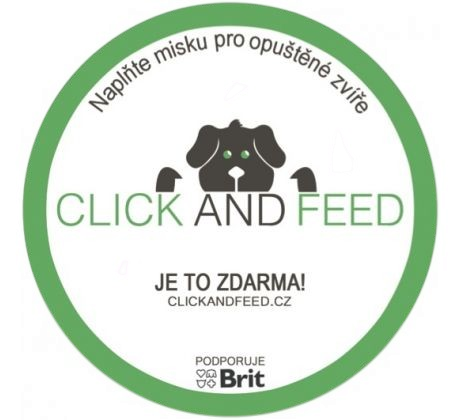
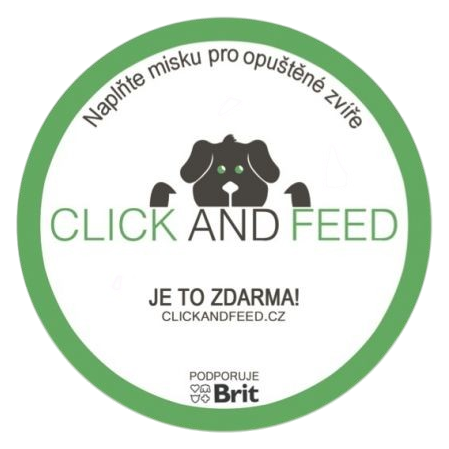
Partneři: rozšíření sekce na „Naši partneři, přátelé a podporovatelé"
Přidáni Petra Kubicová, ČSOP Trosečníci, Kolodějové a Škola pokojný
bojovník vedle stávajících (Jamboz, Nakrm nás, Click and Feed).

Všechna loga ořezána a zbavena bílých/poloprůhledných obdélníkových
pozadí (flood-fill od okrajů zachoval bílé plochy uvnitř designu),
sjednocena na průhledné PNG. Marquee dostal větší karty a rozestupy
a klidnější tempo, ať loga plynule rolují.

Claude-Session: https://claude.ai/code/session_01CfQ2wL6toHGPPQjj1hGiuQ

diff --git a/web/app/o-nas/page.tsx b/web/app/o-nas/page.tsx
@@ -40,9 +40,13 @@ const team = [
 ];
 
 const partners = [
-  { name: "Nakrmnas.cz", logo: "/assets/nakrmnas.png", href: "https://www.nakrmnas.cz/nech-me-rust/" },
-  { name: "clickandfeed.cz", logo: "/assets/click-and-feed.png", href: "https://www.clickandfeed.cz" },
-  { name: "jamboz.cz", logo: "/assets/jamboz.webp", href: "https://www.jamboz.cz" },
+  { name: "Petra Kubicová", logo: "/assets/petra-kubicova.png", href: "https://www.petrakubicova.cz/" },
+  { name: "ČSOP Trosečníci", logo: "/assets/csop-trosecnici.png", href: "https://csoptrosecnici.cz" },
+  { name: "Kolodějové", logo: "/assets/kolodejove.png", href: "https://kolodejove.cz" },
+  { name: "Škola pokojný bojovník", logo: "/assets/skola-pokojny-bojovnik.png", href: "https://skolapokojnybojovnik.cz" },
+  { name: "Farma Jamboz", logo: "/assets/jamboz.png", href: "https://www.jamboz.cz" },
+  { name: "Nakrm nás", logo: "/assets/nakrmnas.png", href: "https://www.nakrmnas.cz/nech-me-rust/" },
+  { name: "Click and Feed", logo: "/assets/click-and-feed.png", href: "https://www.clickandfeed.cz" },
 ];
 
 export default function ONas() {
@@ -180,8 +184,8 @@ export default function ONas() {
           <Reveal>
             <SectionHeader
               eyebrow="Děkujeme"
-              title="Naši partneři"
-              description="Velice si vážíme podpory našich partnerů, díky kterým můžeme realizovat naše projekty a dosahovat stanovených cílů. Jejich důvěra a podpora jsou pro nás klíčové."
+              title="Naši partneři, přátelé a podporovatelé"
+              description="Velice si vážíme podpory našich partnerů, přátel a podporovatelů, díky kterým můžeme realizovat naše projekty a dosahovat stanovených cílů. Jejich důvěra a pomoc jsou pro nás klíčové."
             />
           </Reveal>
           <Reveal>

diff --git a/web/components/LogoMarquee.tsx b/web/components/LogoMarquee.tsx
@@ -17,7 +17,7 @@ export function LogoMarquee({ logos }: { logos: PartnerLogo[] }) {
     <div
       className="marquee-track relative overflow-hidden py-2 [mask-image:linear-gradient(to_right,transparent,black_10%,black_90%,transparent)] [-webkit-mask-image:linear-gradient(to_right,transparent,black_10%,black_90%,transparent)]"
     >
-      <ul className="animate-marquee flex w-max items-center gap-6">
+      <ul className="animate-marquee flex w-max items-center gap-10">
         {loop.map((p, i) => {
           const decorative = seen.has(p.name);
           seen.add(p.name);
@@ -29,14 +29,14 @@ export function LogoMarquee({ logos }: { logos: PartnerLogo[] }) {
                 rel="noopener noreferrer"
                 aria-hidden={decorative || undefined}
                 tabIndex={decorative ? -1 : undefined}
-                className="flex h-24 w-44 items-center justify-center rounded-lg border border-border bg-surface p-5 shadow-soft transition-transform hover:-translate-y-1 hover:border-accent hover:shadow-lift"
+                className="flex h-28 w-48 items-center justify-center rounded-lg border border-border bg-surface p-5 shadow-soft transition-transform hover:-translate-y-1 hover:border-accent hover:shadow-lift"
               >
                 <Image
                   src={p.logo}
                   alt={decorative ? "" : `Logo ${p.name}`}
-                  width={150}
-                  height={70}
-                  className="max-h-14 w-auto object-contain"
+                  width={160}
+                  height={80}
+                  className="max-h-16 w-auto max-w-[150px] object-contain"
                 />
               </a>
             </li>

diff --git a/web/app/globals.css b/web/app/globals.css
@@ -287,7 +287,7 @@
 }
 @media (prefers-reduced-motion: no-preference) {
   .animate-marquee {
-    animation: marquee 30s linear infinite;
+    animation: marquee 45s linear infinite;
   }
   .marquee-track:hover .animate-marquee {
     animation-play-state: paused;

diff --git a/web/app/jak-se-zapojit/page.tsx b/web/app/jak-se-zapojit/page.tsx
@@ -68,7 +68,7 @@ const partners = [
   },
   {
     title: "Farma Jamboz",
-    logo: "/assets/jamboz.webp",
+    logo: "/assets/jamboz.png",
     text: "Rodinná farma Jamboz z Čáslavi nám pravidelně věnuje vyřazenou zeleninu a ovoce, která putuje přímo do tlapek, zobáčků a zubů našich zvířátek. Jedete nás navštívit? Stavte se cestou u Jamboz a přivezte nějakou dobrotu – zvířátka vás za to odmění nadšeným přivítáním! 🐾",
     cta: { label: "Navštívit Jamboz", href: "https://www.jamboz.cz" },
   },